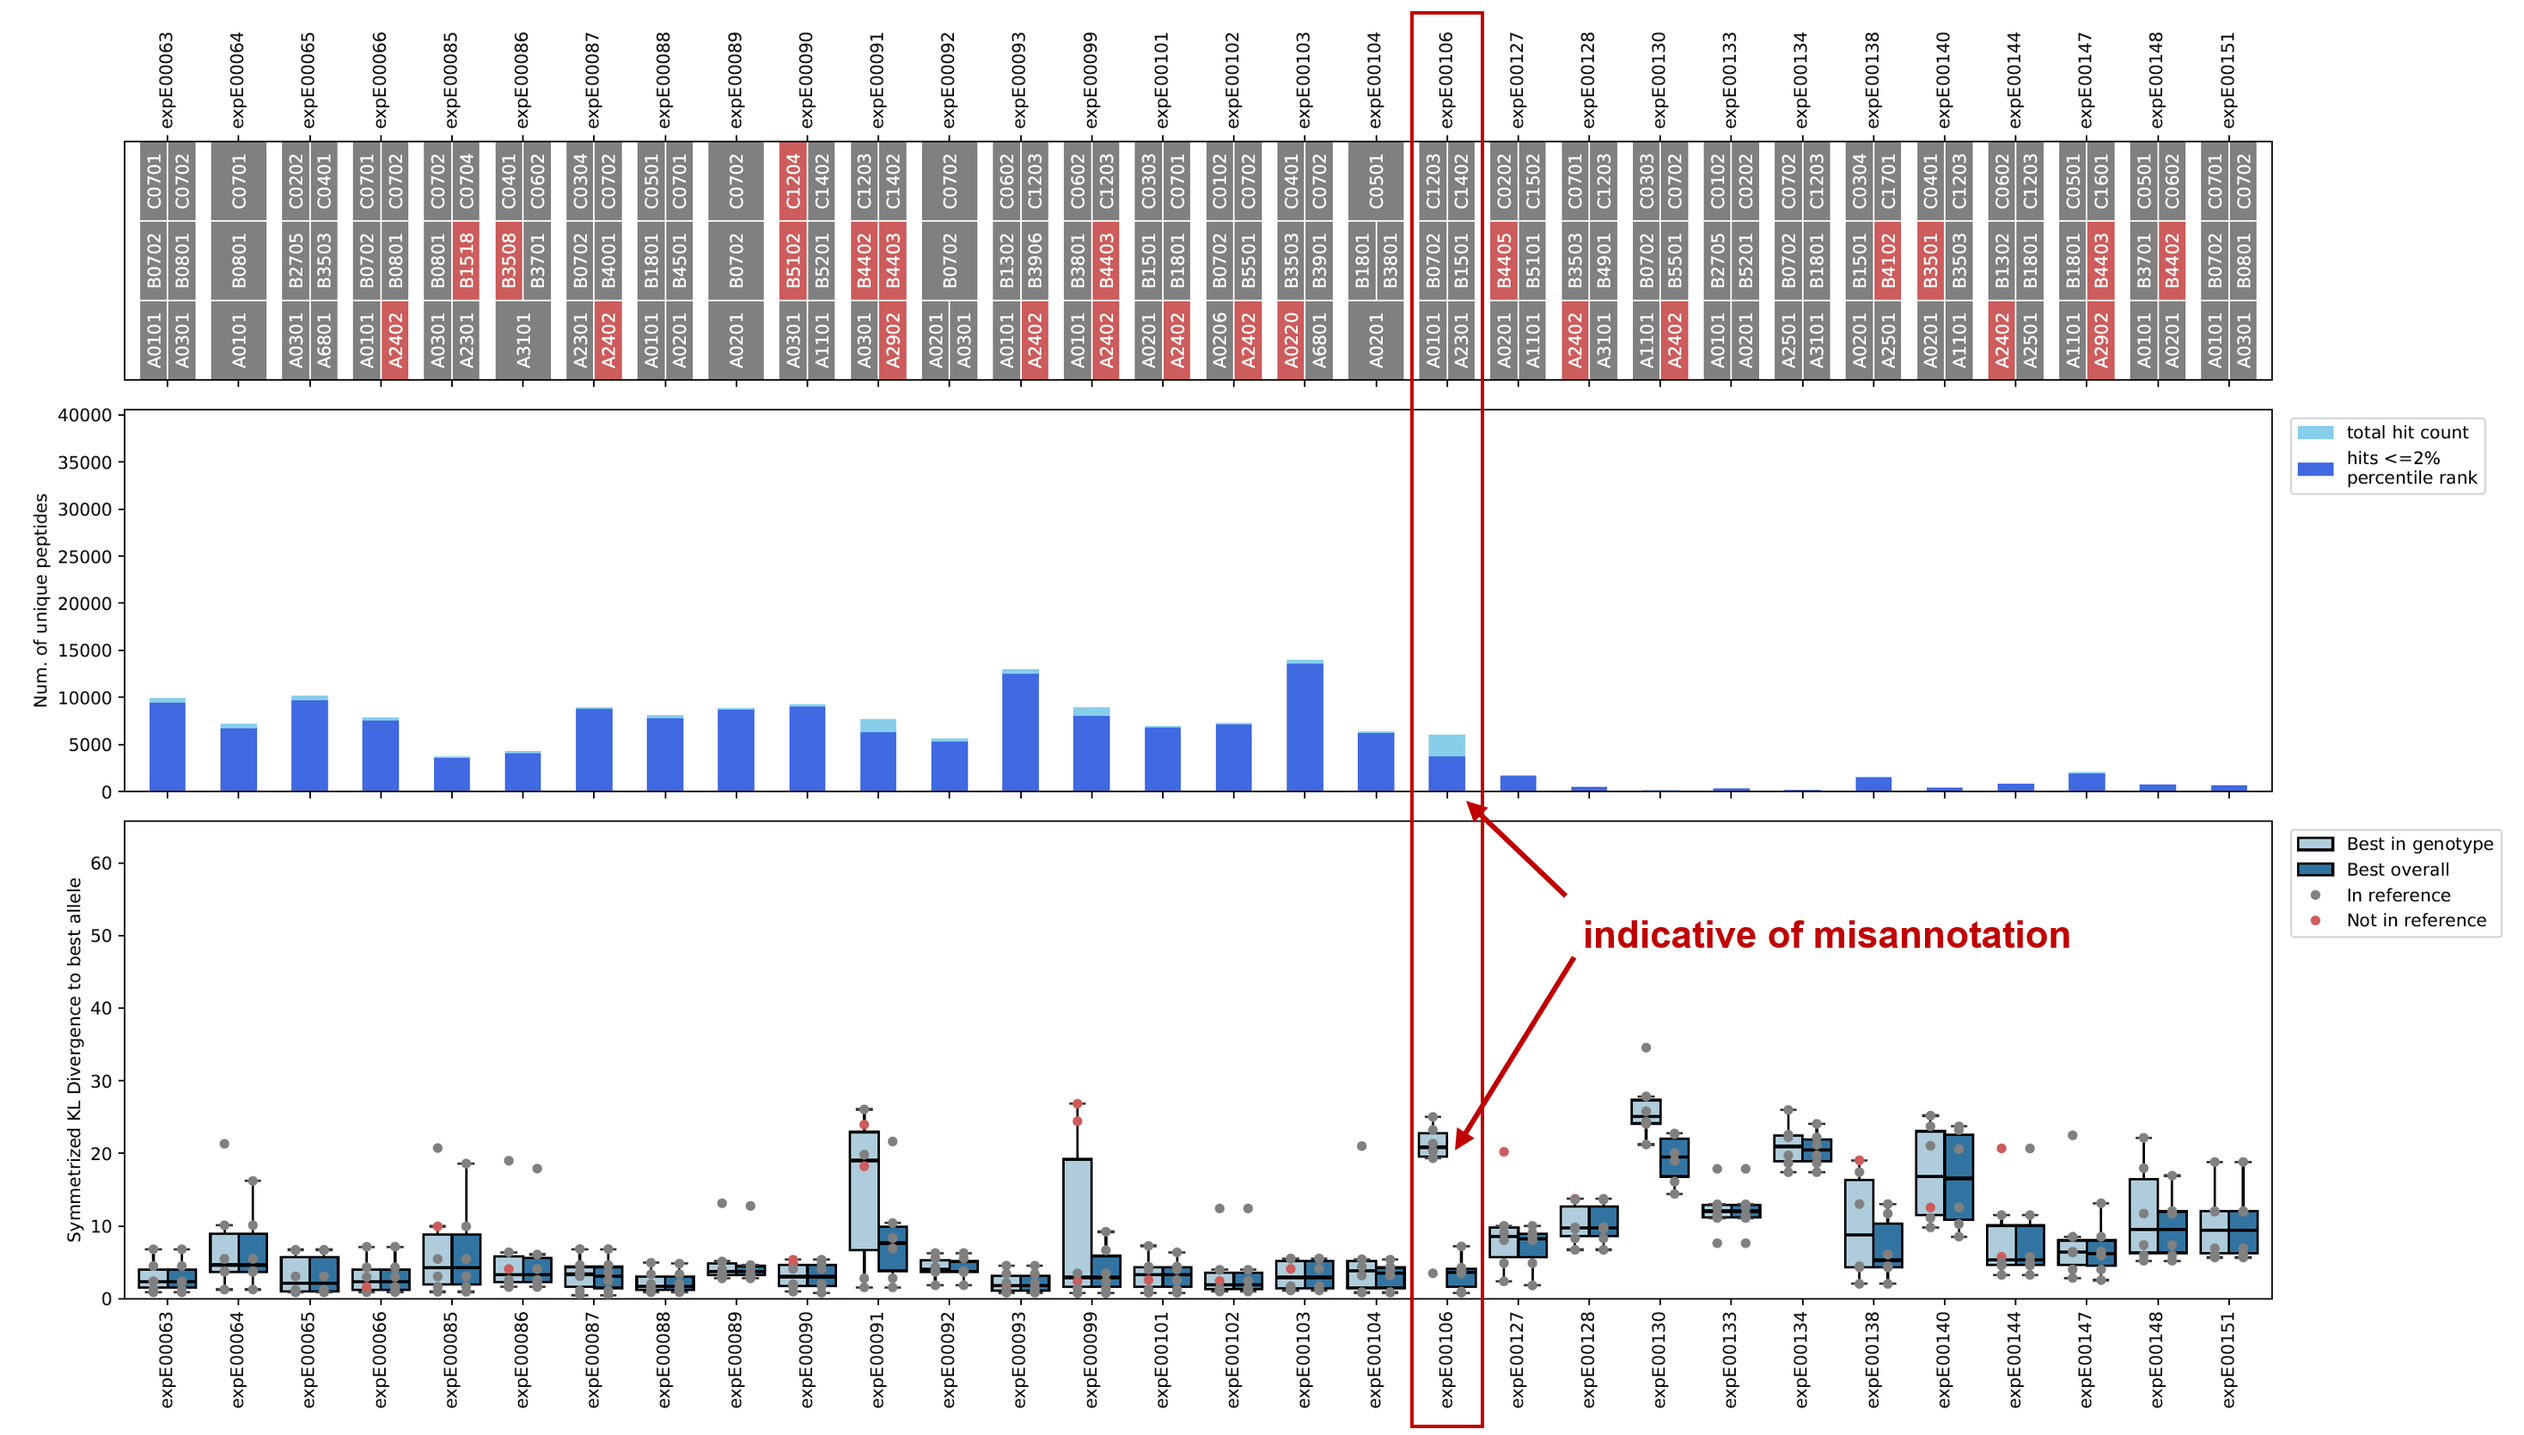
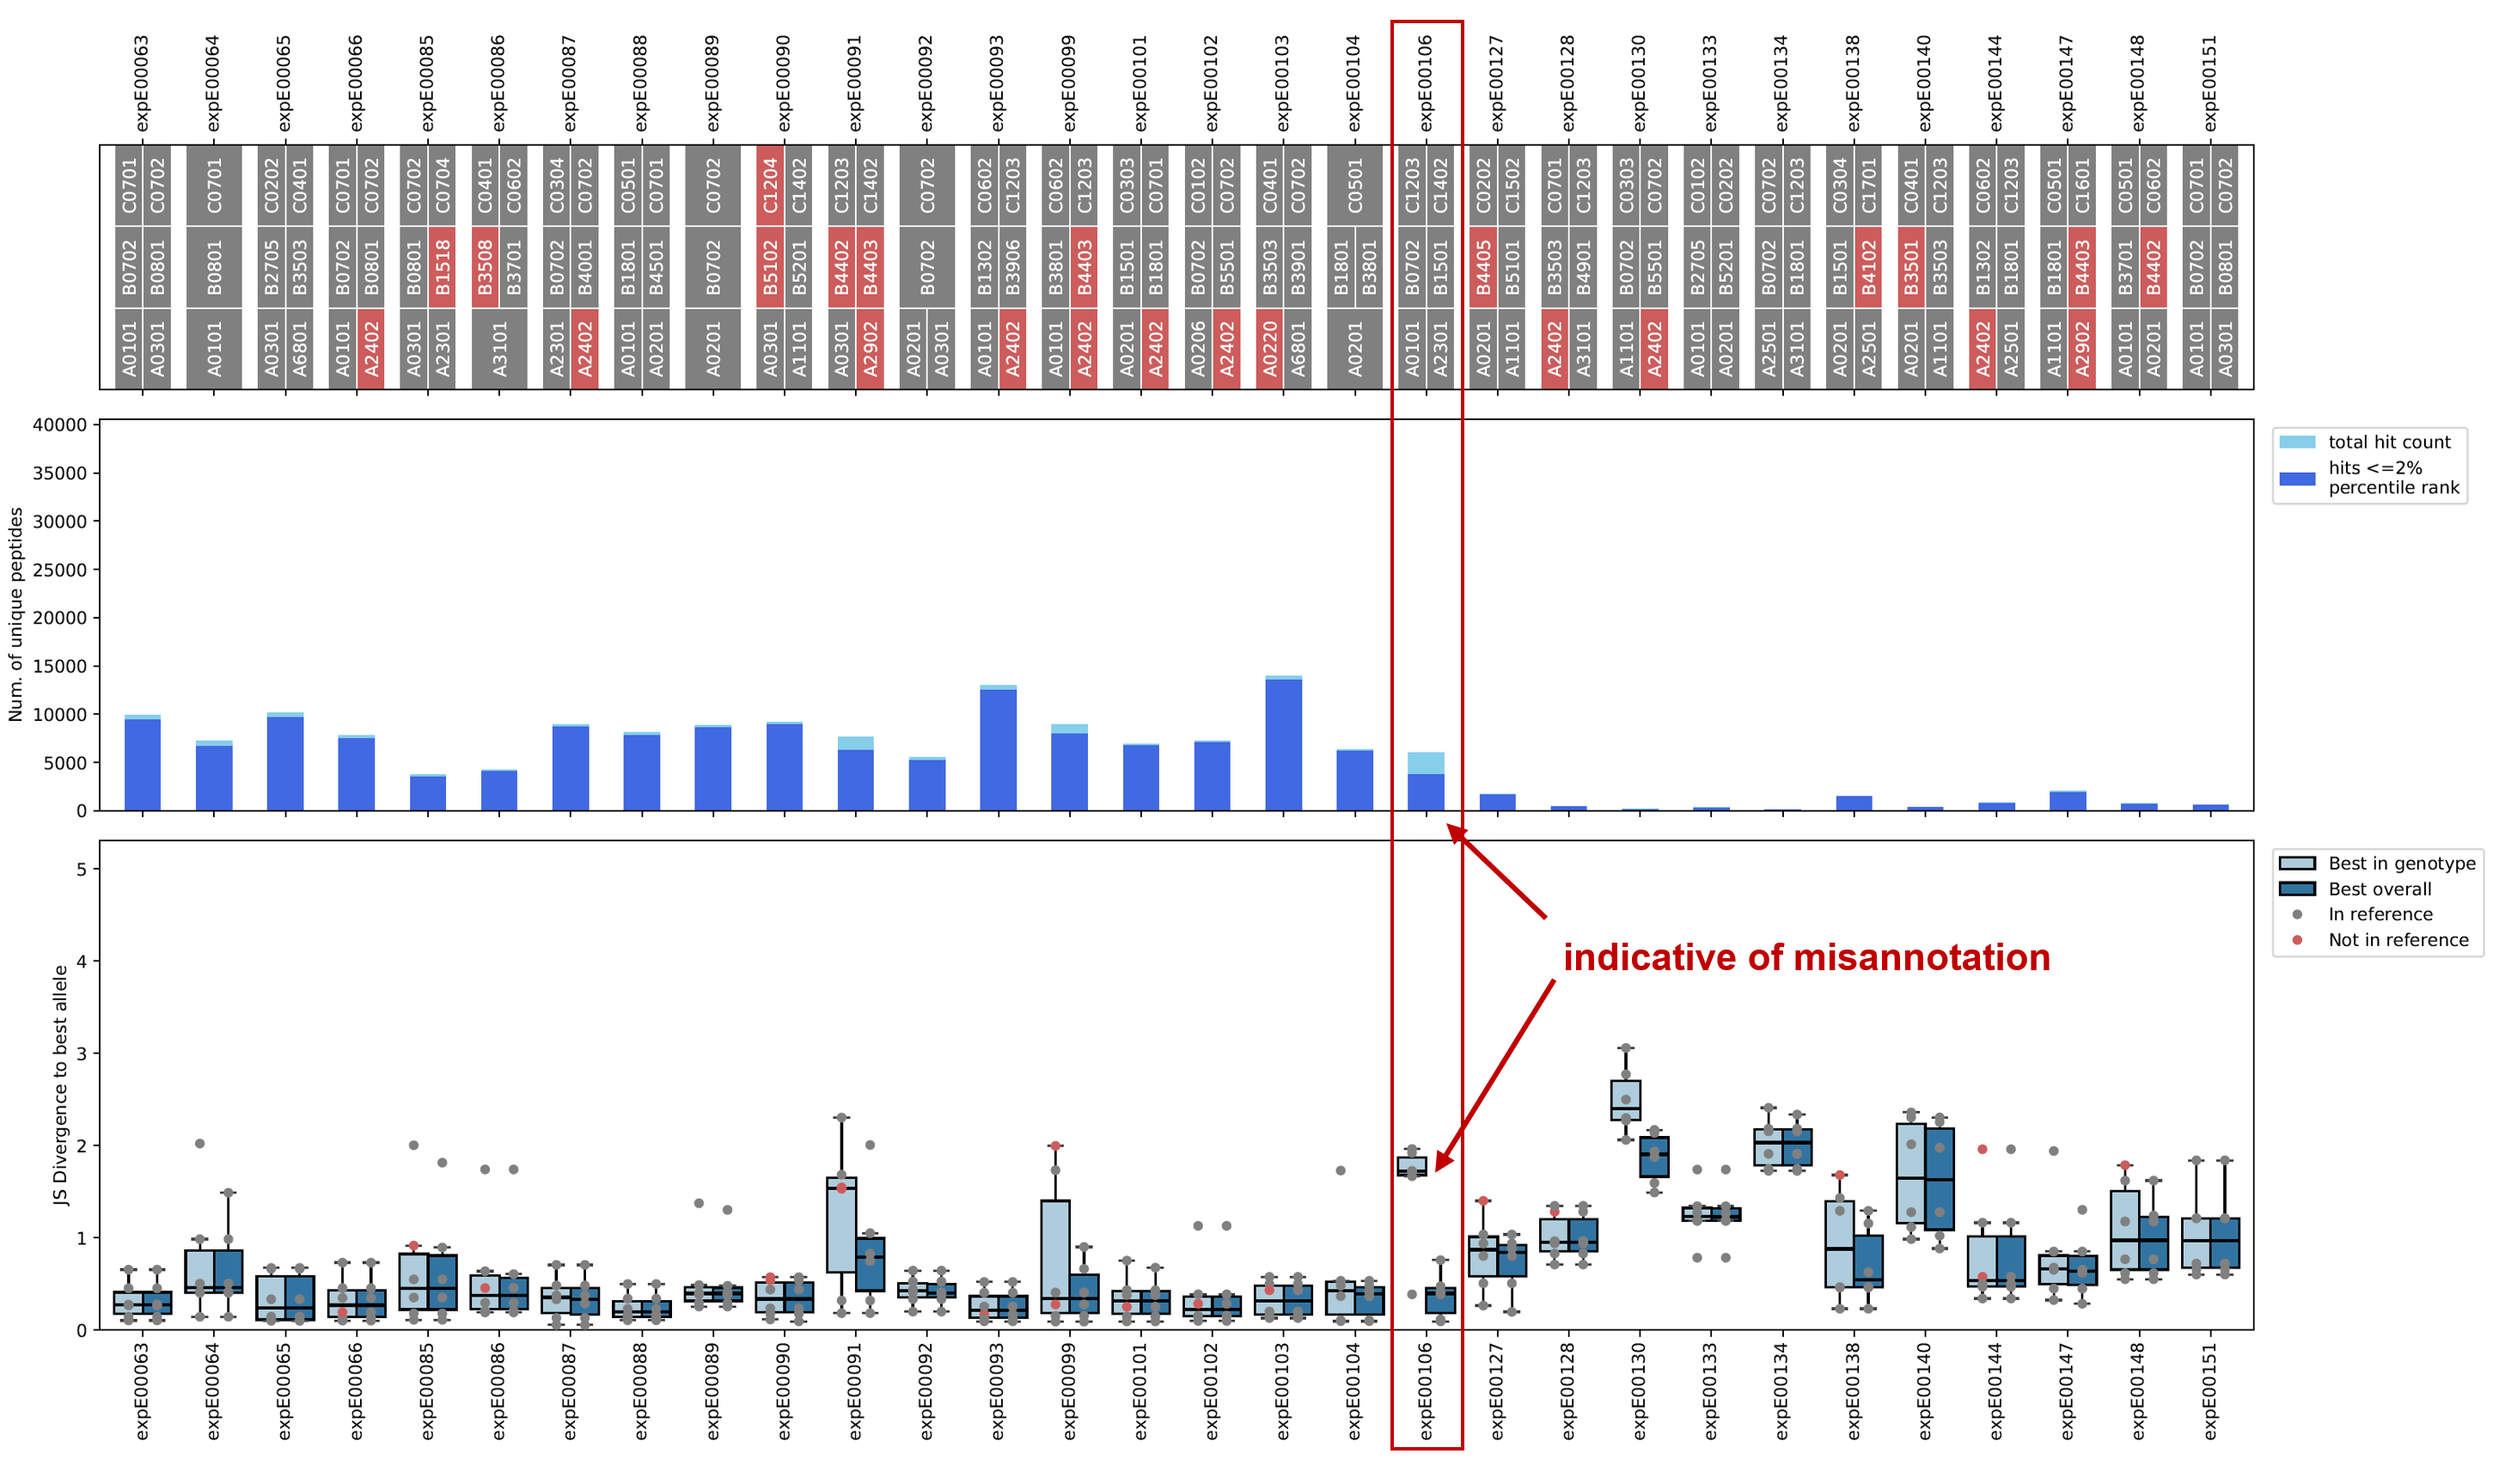
feat(motif_matching): replace KL with JS divergence

diff --git a/emmo/utils/viz/allele_misannotation.py b/emmo/utils/viz/allele_misannotation.py
@@ -157,9 +157,9 @@ class MotifDistancePlotter:
     def plot(self) -> Figure:
         """Plot the motif distances.
 
-        Plots the symmetrized Kullback-Leibler divergence to the best reference motifs (in the
-        genotype vs overall as paired boxplot), and optionally the hit counts and the alleles
-        present in the genotype.
+        Plots the Jensen-Shannon divergence to the best reference motifs (in the genotype vs
+        overall as paired boxplot), and optionally the hit counts and the alleles present in the
+        genotype.
 
         Returns:
             The matplotlib Figure object containing the plot.
@@ -311,7 +311,7 @@ class MotifDistancePlotter:
         return df_melted
 
     def _plot_motif_distances(self, ax: plt.Axes) -> None:
-        """Plot the symmetrized Kullback-Leibler divergence to the best reference motifs.
+        """Plot the Jensen-Shannon divergence to the best reference motifs.
 
         This produces one boxplot per group with the distances to the best matching reference motifs
         among the available alleles in the dataset. The boxplots are grouped by the matching type,
@@ -361,7 +361,7 @@ class MotifDistancePlotter:
 
         ax.tick_params(axis="x", labelrotation=90)
         ax.set_xlabel("")
-        ax.set_ylabel("Symmetrized KL Divergence to best allele")
+        ax.set_ylabel("JS divergence to best allele")
         ax.legend(loc="upper left", bbox_to_anchor=(1.005, 1.0), ncol=1).set_title(None)
 
     def _set_x_axis_labels(self, ax: plt.Axes) -> None:
@@ -900,7 +900,7 @@ class MotifComparisonPlotter:
 
                 if allele in self.allele2reference_motif:
                     ref_allele = allele
-                    title = f"Closest motif {suffix}: {allele}\nSymm. KL divergence: {distance:.3f}"
+                    title = f"Closest motif {suffix}: {allele}\nJS divergence: {distance:.3f}"
                 else:
                     nearest_reference_alleles = self._allele2nearest_reference_allele[allele][0]
 
@@ -911,7 +911,7 @@ class MotifComparisonPlotter:
                     alleles_str = ", ".join(nearest_reference_alleles)
                     title = (
                         f"Closest motif {suffix}: {allele} (nearest ref.: {alleles_str})\n"
-                        f"Symm. KL divergence: {distance:.3f}"
+                        f"JS divergence: {distance:.3f}"
                     )
 
                 ppm = self.allele2reference_motif[ref_allele]
@@ -1073,11 +1073,11 @@ def _plot_group_motif_distances(
     num_groups = len(unique_groups)
 
     # determine the maximum y-axis limits for synchronizing across all pages
-    max_kl_distance = max(
+    max_distance = max(
         df_distances["best_matching_distance_genotype"].max(),
         df_distances["best_matching_distance_overall"].max(),
     )
-    ylim_distances = max_kl_distance * 1.03
+    ylim_distances = max_distance * 1.03
     if df_hit_counts is not None:
         max_hit_count = df_hit_counts["num_of_hits_total"].max()
         ylim_hit_counts = max_hit_count * 1.03

diff --git a/emmo/utils/statistics.py b/emmo/utils/statistics.py
@@ -48,6 +48,8 @@ def symmetrized_kullback_leibler_divergence(p: np.ndarray, q: np.ndarray) -> flo
     """Symmetrized Kullback-Leibler divergence between two distributions p and q.
 
     This is defined as: D_KL(p || q) + D_KL(q || p) where D_KL is the Kullback-Leibler divergence.
+    In case of sequence motifs (represented as position probability matrices), the function returns
+    the sum of the symmetrized KL divergence values over all positions.
 
     Args:
         p: First probability distribution.
@@ -60,6 +62,36 @@ def symmetrized_kullback_leibler_divergence(p: np.ndarray, q: np.ndarray) -> flo
     q = _ensure_positive_values(q)
 
     return kullback_leibler_divergence(p, q) + kullback_leibler_divergence(q, p)
+
+
+def jensen_shannon_divergence(p: np.ndarray, q: np.ndarray) -> float:
+    """Jensen-Shannon divergence between two distributions p and q.
+
+    This is defined as the average of the Kullback-Leibler divergence of p and q with respect to
+    their average distribution:
+    D_JS(p || q) = 0.5 * (D_KL(p || m) + D_KL(q || m)), where m = 0.5 * (p + q).
+    In case of sequence motifs (represented as position probability matrices), the function returns
+    the sum of the JS divergence values over all positions.
+
+    References:
+        [1] Jianhua Lin. Divergence measures based on the Shannon entropy. IEEE Transactions on
+            Information Theory, 37(1):145-151 (1991). doi:10.1109/18.61115
+        [2] Martin Nettling, Hendrik Treutler, Jan Grau, Jens Keilwagen, Stefan Posch, Ivo Grosse.
+            DiffLogo: a comparative visualization of sequence motifs.
+            BMC Bioinformatics 16, 387 (2015). doi:10.1186/s12859-015-0767-x
+
+    Args:
+        p: First probability distribution.
+        q: Second probability distribution.
+
+    Returns:
+        Jensen-Shannon divergence.
+    """
+    p = _ensure_positive_values(p)
+    q = _ensure_positive_values(q)
+
+    m = 0.5 * (p + q)
+    return 0.5 * (kullback_leibler_divergence(p, m) + kullback_leibler_divergence(q, m))
 
 
 def euclidean_distance(a: np.ndarray, b: np.ndarray) -> float:

diff --git a/emmo/dataset_processing/contaminants/motif_matching.py b/emmo/dataset_processing/contaminants/motif_matching.py
@@ -21,7 +21,7 @@ from emmo.pipeline.model_selection import load_selected_ppms
 from emmo.utils import logger
 from emmo.utils.alleles import split_and_shorten_alleles
 from emmo.utils.sequence_distance import nearest_neighbors
-from emmo.utils.statistics import symmetrized_kullback_leibler_divergence
+from emmo.utils.statistics import jensen_shannon_divergence
 
 log = logger.get(__name__)
 
@@ -238,7 +238,7 @@ def _assign_best_matching_motifs(
 ) -> list[dict[str, Any]]:
     """Assign the best matching motifs for a given deconvolution model.
 
-    This function computes the Kullback-Leibler divergence between the PPMs of the deconvolution
+    This function computes the Jensen-Shannon divergence between the PPMs of the deconvolution
     model and the reference PPMs. It returns a list of dictionaries containing the best matching
     alleles and their distances for each class/cluster in the deconvolution model.
     Two types of best matching alleles are returned:
@@ -269,7 +269,7 @@ def _assign_best_matching_motifs(
         ppm = model.ppm[c]
 
         kl_distances = {
-            ref_allele: symmetrized_kullback_leibler_divergence(ppm, ref_ppm)
+            ref_allele: jensen_shannon_divergence(ppm, ref_ppm)
             for ref_allele, ref_ppm in allele2ppm.items()
         }
 

diff --git a/docs/how_to/contaminants/mhc_allele_misannotations.md b/docs/how_to/contaminants/mhc_allele_misannotations.md
@@ -13,25 +13,36 @@ the deconvoluted motifs to a set of curated reference motifs.
 
 ### Motif similarity
 
-A motif in EMMo is typically represented by a position probability matrix (PPM). A PPM has a set $X$
-of entries where $|X|= L \cdot |A|$ with $L$ being the motif length and $A$ the alphabet (here,
-typically, the set of amino acids). The Kullback-Leibler (KL) divergence can be used to compare two
-PPMs.
+A motif in EMMo is typically represented by a position probability matrix (PPM). A PPM is an
+$L \times |A|$ matrix where $L$ is the motif length and $A$ is the alphabet (here, typically, the
+set of amino acids). Following [Nettling et al. (2015)](https://doi.org/10.1186/s12859-015-0767-x),
+we use the Jensen-Shannon (JS) divergence to compare two PPMs.
 
-In general, the KL divergence is a type of statistical distance: a measure of how much a model
-probability distribution $Q$ is different from a true probability distribution $P$. Mathematically,
-it is defined as:
-
-$$
-D_{\textrm{KL}}(P\; ||\; Q) = \sum_{x \in X} P(x)\; \log \frac{P(x)}{Q(x)}.
-$$
-
-The KL divergence is not symmetric, i.e.,
-$D_{\textrm{KL}}(P\; ||\; Q) = D_{\textrm{KL}}(Q\; ||\; P)$ does not hold in general. We therefore
-use the symmetrized KL divergence:
+The JS divergence is a method of measuring the similarity between two probability distributions. It
+is a symmetrized and smoothed version of the Kullback–Leibler (KL) divergence. The JS divergence of
+two motifs $p$ and $q$ at position $\ell$ is given by
 
 $$
-D_{\textrm{KL}}(P\; ||\; Q) + D_{\textrm{KL}}(Q\; ||\; P).
+H_{\ell}
+\; = \;
+\frac{1}{2} \sum_{a \in A} p_{\ell, a}\; \log \frac{p_{\ell, a}}{m_{\ell, a}}
+\; + \;
+\frac{1}{2} \sum_{a \in A} q_{\ell, a}\; \log \frac{q_{\ell, a}}{m_{\ell, a}}
+$$
+
+where
+
+$$
+m_{\ell, a} = \frac{p_{\ell, a} + q_{\ell, a}}{2}
+$$
+
+is a mixture distribution of $p$ and $q$.
+
+We define a scalar dissimilarity value $D$ for a pair of motifs as the sum of the JS divergence over
+all positions:
+
+$$
+D = \sum_{\ell = 1}^{L} H_{\ell}.
 $$
 
 ### Motif comparison
@@ -58,8 +69,8 @@ alleles:
 In option 1, if a given allele is not available in the set of reference alleles, the closest
 available allele in terms of a BLOSUM-based distance of the pseudosequences is used instead.
 
-This approach results in $2 \times K$ distance values (symm. KL divergence) for each experiment,
-which can be plotted using functions implemented in EMMo (see examples below).
+This approach results in $2 \times K$ distance values (JS divergence) for each experiment, which can
+be plotted using functions implemented in EMMo (see examples below).
 
 ## Usage in EMMo
 
@@ -68,7 +79,7 @@ which can be plotted using functions implemented in EMMo (see examples below).
 ### Motif matching
 
 As a first step, the best matching alleles and motifs are computed with the corresponding motif
-distances (symm. KL divergence).
+distances (JS divergence).
 
 ```python
 from emmo.dataset_processing.contaminants.motif_matching import match_motifs_to_reference
@@ -100,10 +111,10 @@ The ratio of the number of predicted binders vs. the total number of peptides in
 experiment can also indicate low-quality experiments or experiments with misannotations. Therefore,
 EMMo allows inputting a table `df_hit_counts` with columns:
 
-- `group` - the experiment ID
+- `group` - Experiment ID
 - `num_of_hits_total` - Total number of peptides for the group
 - `num_of_hits_below_threshold` - Number of predicted binders (e.g., peptides that are below a
-  certain percentile rank)
+  certain percentile rank threshold)
 
 Example usage:
 
@@ -139,8 +150,7 @@ plot_group_motif_distances(
 ```
 
 The following is an example plot (first page only) where all possible types of input have been
-provided (i.e., including MHC allele annotation information and total peptide / predicted binder
-counts).
+provided (i.e., including MHC allele annotations and total peptide / predicted binder counts).
 
 <img src="../../media/usage/contaminant-misannotation.png" width="800"/>
 
